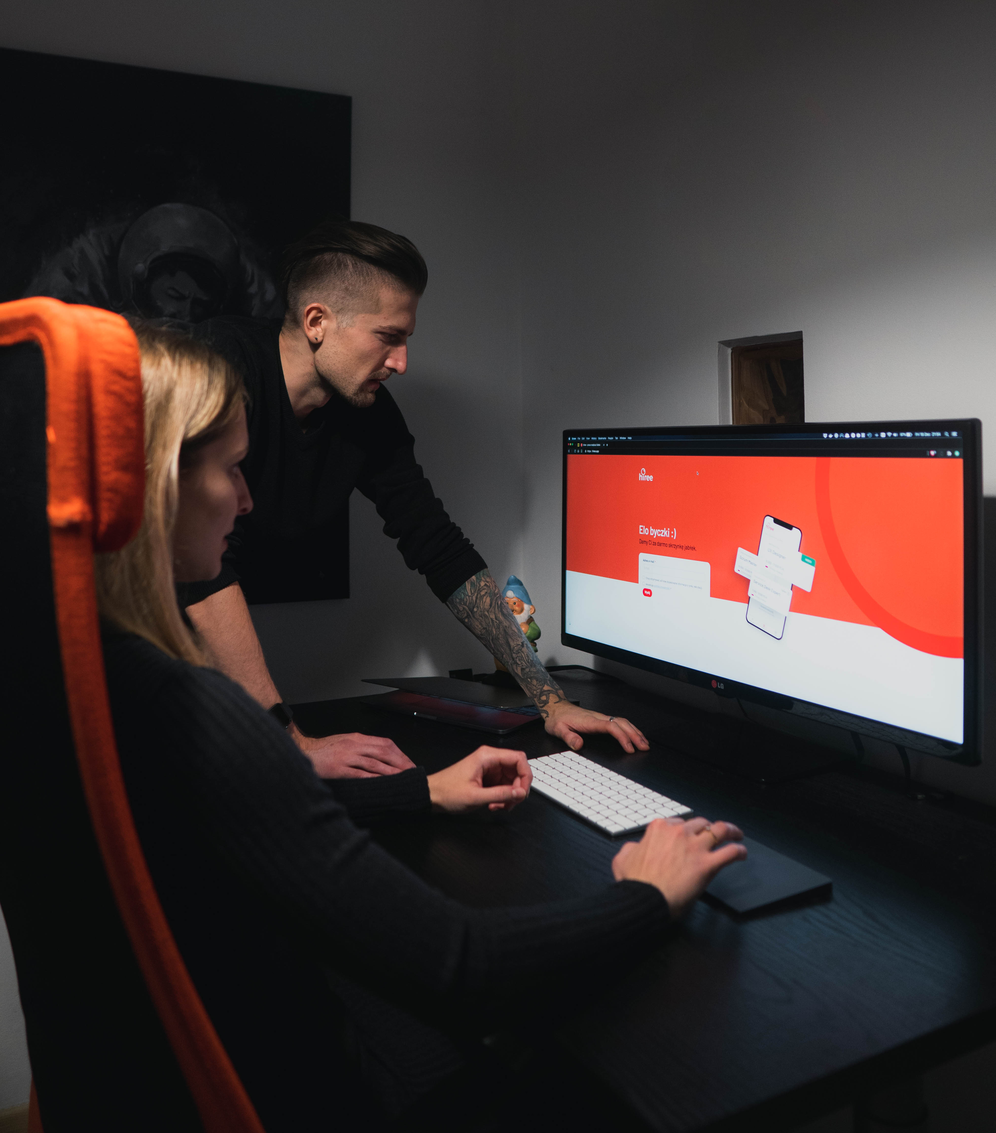
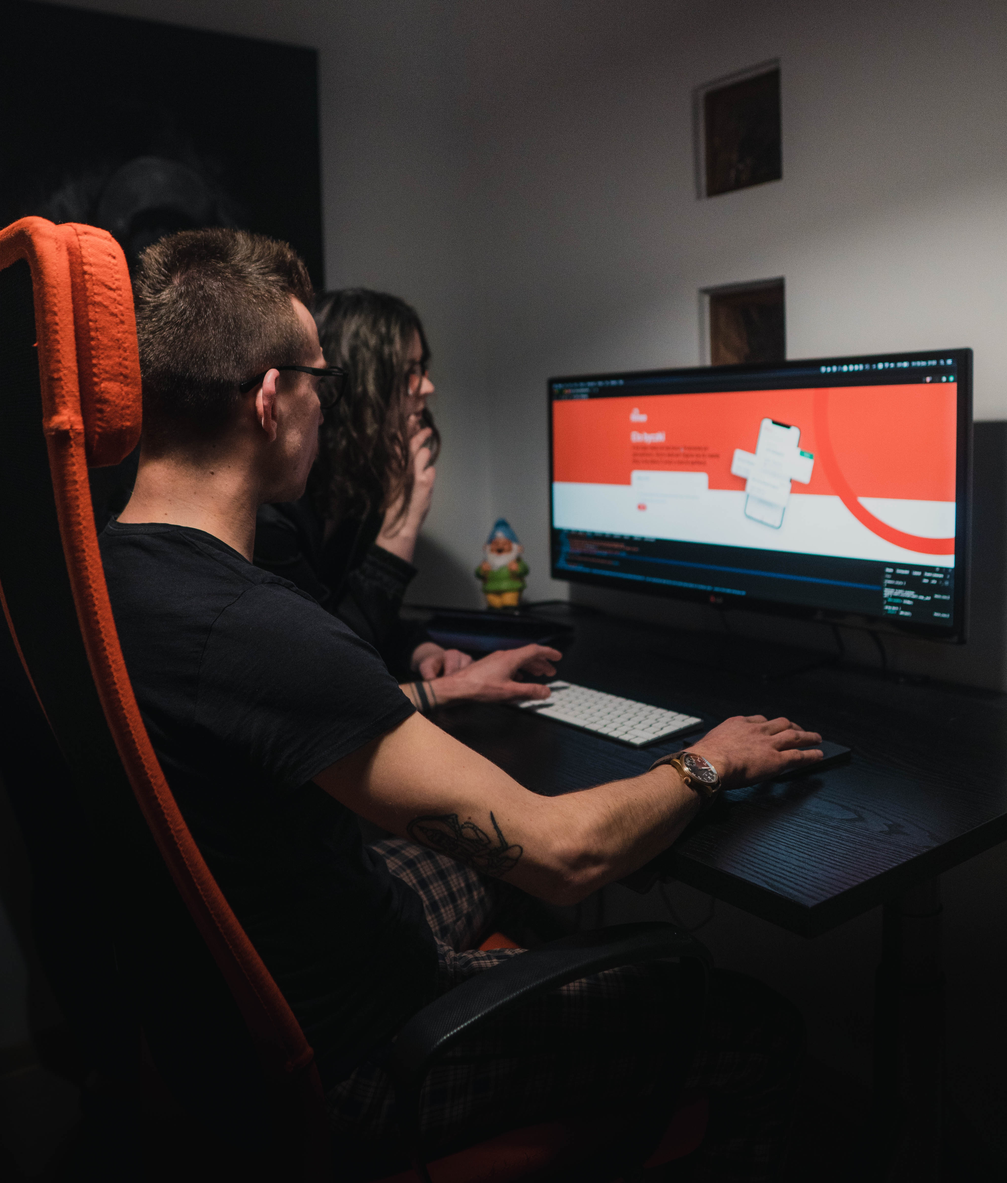
Change team img and remove unused code, spacing adjustments

diff --git a/_layouts/default.html b/_layouts/default.html
@@ -138,13 +138,13 @@
 
 
     <div class="col-7 animate fade-right mobile-col-12 flex flex-column pl3 mobile-pl0">
-      <p class="col-12 font-p4 secondary-light mt7">
+      <p class="col-12 font-p4 secondary-light mt3">
         {{ page.team.label }}
       </p>
       <h2 class="col-12 primary fw-semi mt2">
         {{ page.team.headline }}
       </h2>
-      <p class="col-7 mobile-col-12 self-end font-p3 mt4 mobile-mt2">
+      <p class="col-7 mobile-col-12 gray-dark self-end font-p3 mt5 mobile-mt2">
         {{ page.team.subline }}
       </p>
     </div>
@@ -203,46 +203,11 @@
 </section>
 {% endif %}
 
-
-{% if page.business_footer.show %}
-<section id="about" class="bg-primary-light relative flex-column">
-  <div class="flex">
-    <span class="circle absolute mobile-hide" style="bottom: -500px; left: -200px;"></span>
-    <span class="circle absolute hide mobile-block" style="top: 10%; left: -30%;"></span>
-
-    <div class="flex mobile-flex-column">
-      <div class="col-4 animate fade-right mobile-hide">
-        <img class="img-fit" src="{{ site.baseurl }}/assets/svg/app-preview.png" alt="">
-      </div>
-      <div class="col-7 pl5 fw-medium flex flex-column justify-center mobile-col-12 mobile-pl0 mobile-items-center">
-        <h1 class="animate fade-up mb5 gray-dark mobile-center">{{ page.business_footer.title }}</h1>
-
-        <div class="col-8 animate fade-right hide mobile-block mb2">
-          <img class="img-fit" src="{{ site.baseurl }}/assets/svg/app-preview.png" alt="">
-        </div>
-
-        {% for paragraph in page.business_footer.paragraphs %}
-        <p class="font-p3 white mt3">{{ paragraph.text }}</p>
-        {% endfor %}
-      </div>
-    </div>
-  </div>
-  <footer class="mt8 custom-width col-12 mobile-mt7 flex space-between mobile-flex-column-reverse mobile-p3">
-    <p class="font-p4 mobile-mt2">© hiree sp. z o.o. sp. k. - ul. Będzińska 5/8, 31-403
-      Kraków<br>KRS: 0000844894, NIP: 6762581458, REGON: 386247313</p>
-    <div class="flex mobile-flex-column mobile-mt2">
-      <a href="{{ site.baseurl }}/cookies/" target="_blank" class="font-p4 white ml3 mobile-ml0 mobile-mt2">Polityka Cookies</a>
-      <a href="{{ site.baseurl }}/polityka-prywatnosci/" target="_blank" class="font-p4 white ml3 mobile-ml0 mobile-mt2">Polityka Prywatności</a>
-    </div>
-  </footer>
-</section>
-{% endif %}
-
 <script src="{{ site.baseurl }}/assets/js/usp.js"></script>
 <script src="{{ site.baseurl }}/assets/js/scrollingAnimations.js"></script>
 <script>
   {% for usp in page.usp.items %}
-  previews.push('{{ usp.icon }}')
+    previews.push('{{ usp.icon }}')
   {% endfor %}
 </script>
 

diff --git a/_sass/_layout.scss b/_sass/_layout.scss
@@ -356,7 +356,7 @@ section {
   &__top-image {
     position: absolute;
     right: -55%;
-    top: 40%;
+    top: 30%;
     z-index: 10;
 
     @include mobile() {

diff --git a/_sass/_effects.scss b/_sass/_effects.scss
@@ -55,7 +55,7 @@
     height: 100%;
     left: 0;
     top: 0;
-    background-color: rgba($primary, 0.07);
+    background-color: rgba($primary, 0.05);
   }
 }
 
